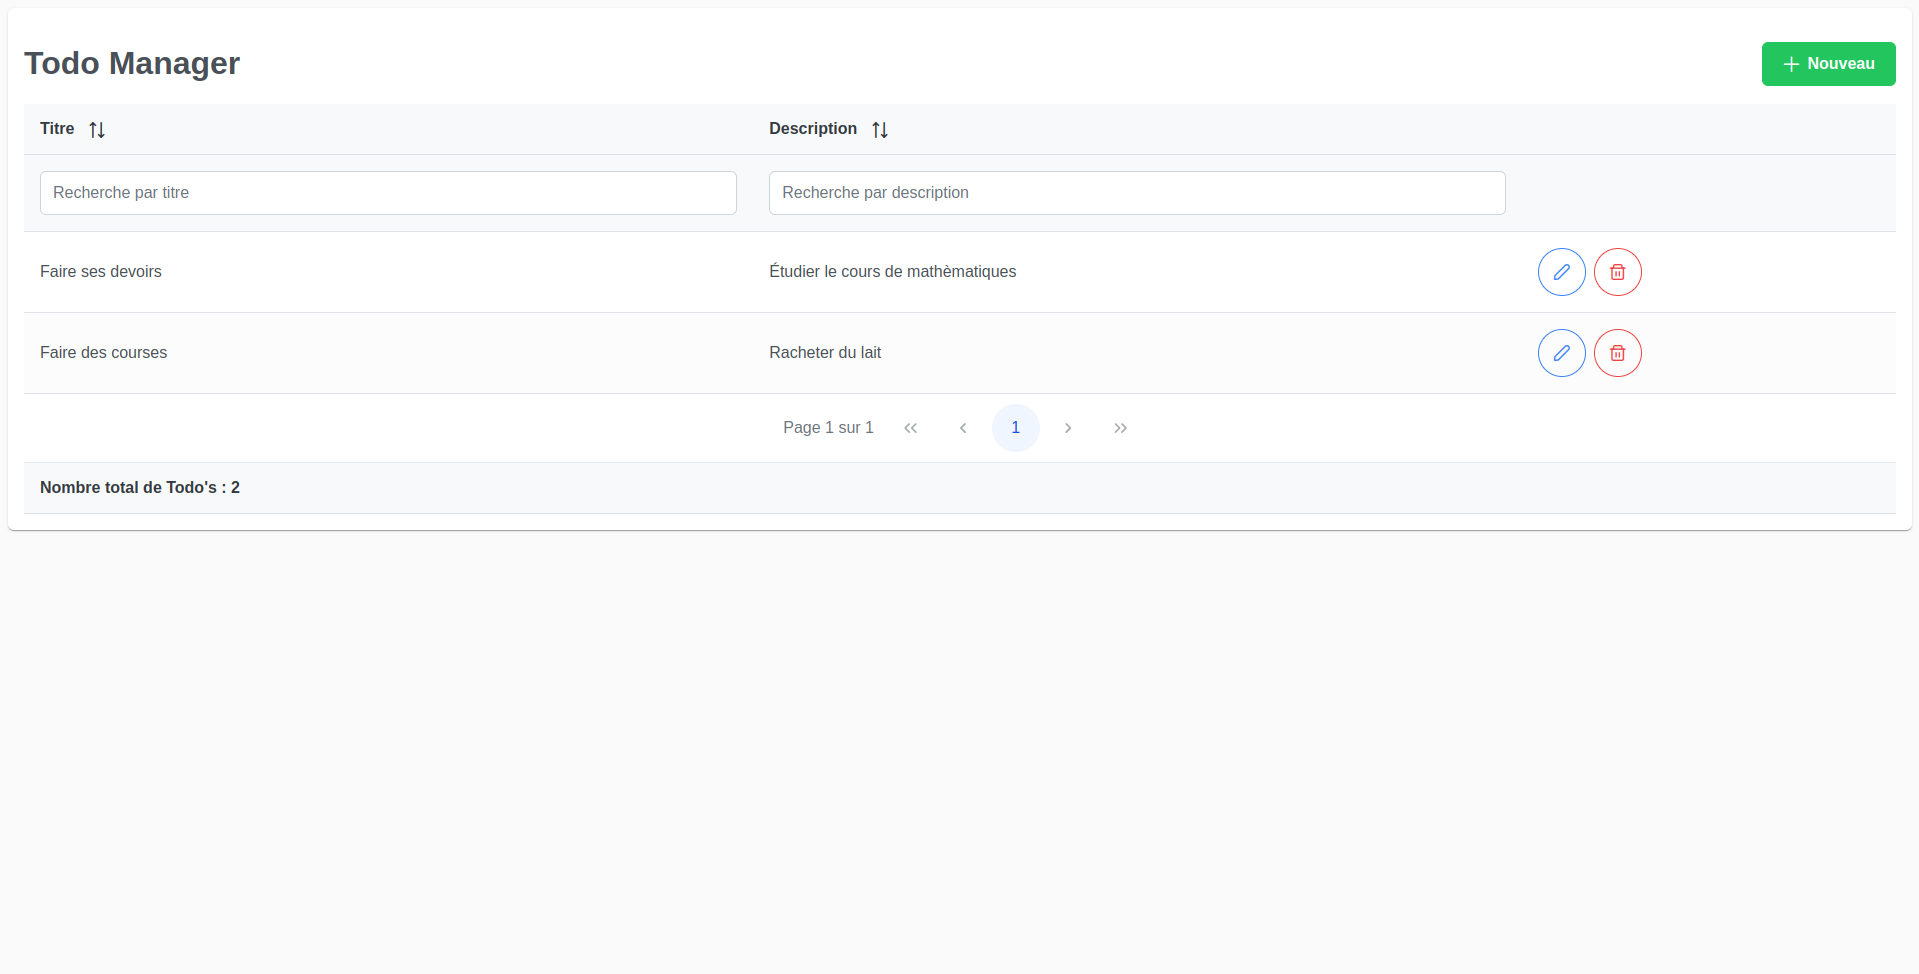
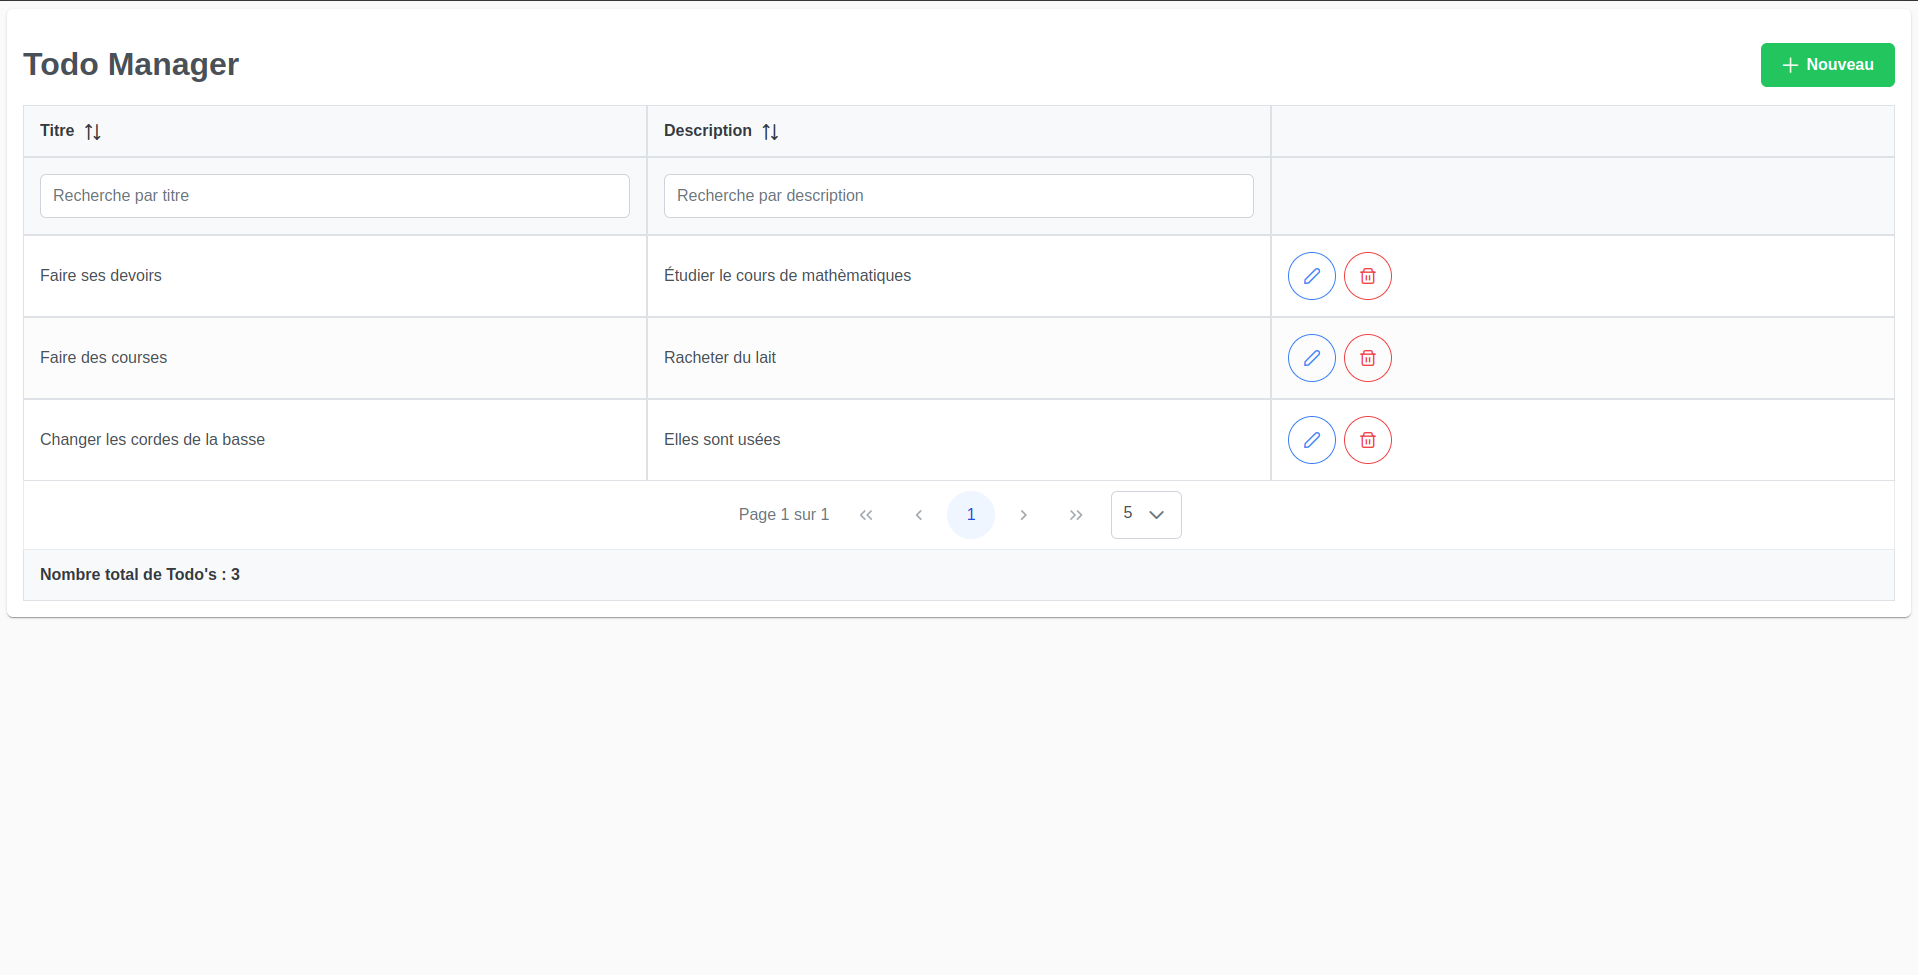
:lipstick: Improved table

diff --git a/frontend-angular/src/app/layout/crud-table/crud-table.component.html b/frontend-angular/src/app/layout/crud-table/crud-table.component.html
@@ -2,10 +2,11 @@
   <h1>Todo Manager</h1>
   <button pButton pRipple label="Nouveau" icon="pi pi-plus" class="p-button-success" (click)="showDialog()"></button>
 </div>
-<p-table responsiveLayout="scroll" #data [value]="this.todos" [rows]="5" [paginator]="true"
-         [globalFilterFields]="['title','description']" sortField="id" styleClass="p-datatable-striped"
-         [rowHover]="true" dataKey="id" currentPageReportTemplate="Page {currentPage} sur {totalPages}"
-         [showCurrentPageReport]="true">
+<p-table [value]="this.todos" #data [globalFilterFields]="['title','description']" [paginator]="true" [rows]="5"
+         [rowHover]="true" [scrollable]="true" scrollHeight="700px"
+         [showCurrentPageReport]="true" [rowsPerPageOptions]="[5, 10, 20]" [filterDelay]="0"  dataKey="id"
+         sortField="id" currentPageReportTemplate="Page {currentPage} sur {totalPages}" responsiveLayout="scroll"
+         styleClass="p-datatable-striped p-datatable-gridlines">
   <ng-template pTemplate="header">
     <tr>
       <th pSortableColumn="title">Titre
